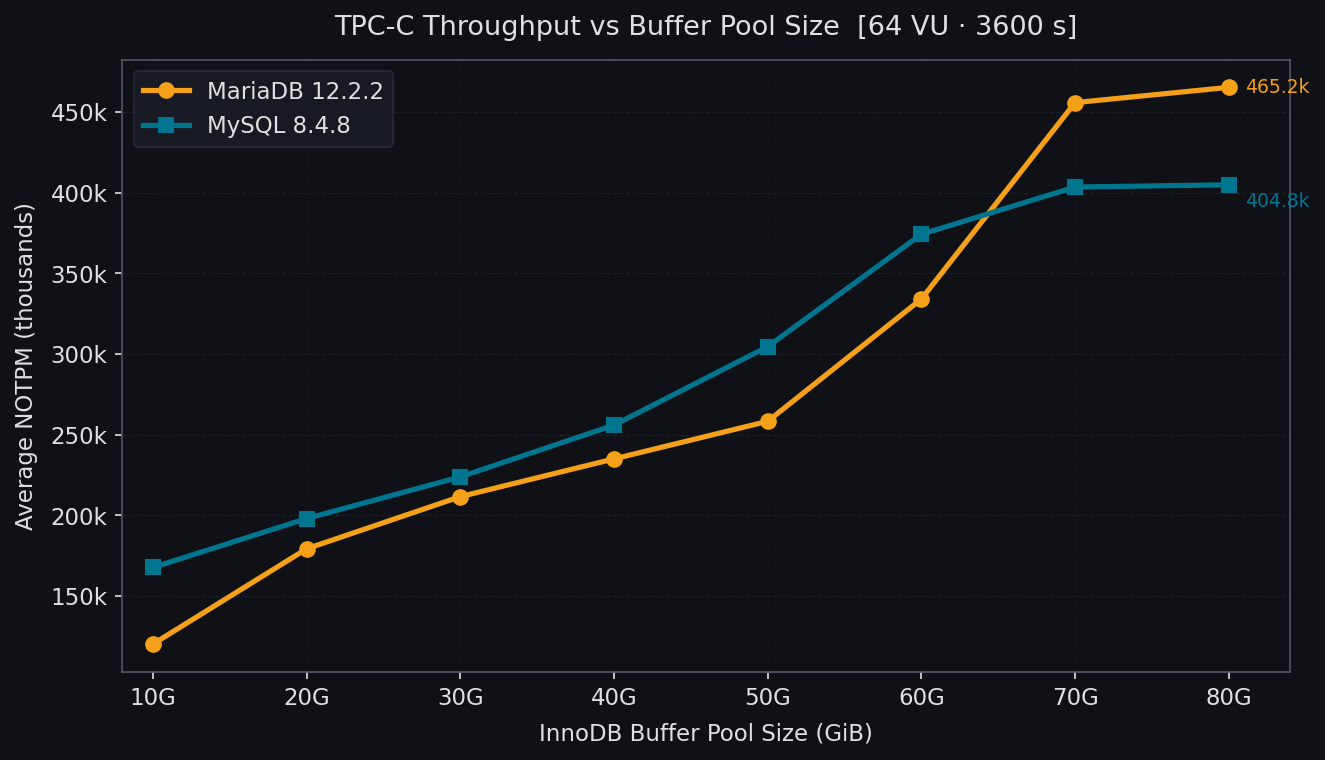
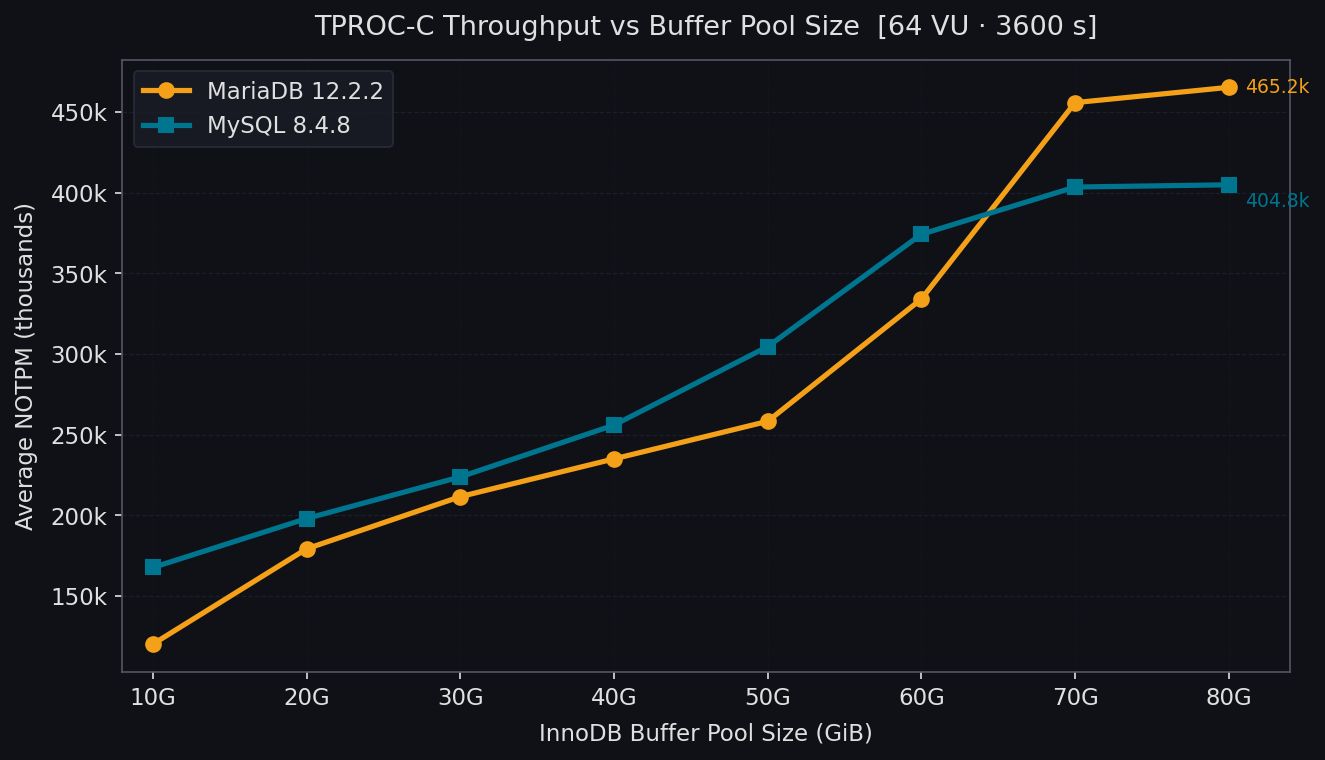
Rename TPC-C to TPROC-C throughout
HammerDB uses TPROC-C (its own workload), not the official TPC-C benchmark.
Updated all labels in build_report.py, REPORT.md, report.html, and charts.

Changed region(s): [[0.2475, 0.0, 0.8355, 0.0605]]

diff --git a/build_report.py b/build_report.py
@@ -39,7 +39,7 @@ plt.rcParams.update({
     "axes.titlepad":    12,
 })
 
-# TPS (commits+rollbacks/s) → NOTPM (new orders/min): TPC-C new-order mix = 45%
+# TPS (commits+rollbacks/s) → NOTPM (new orders/min): TPROC-C new-order mix = 45%
 TPS_TO_NOTPM = 60 * 0.45
 
 # ── load data ─────────────────────────────────────────────────────────────────
@@ -198,7 +198,7 @@ def make_bp_chart():
 
     ax.set_xlabel("InnoDB Buffer Pool Size (GiB)", labelpad=6)
     ax.set_ylabel("Average NOTPM (thousands)", labelpad=6)
-    ax.set_title("TPC-C Throughput vs Buffer Pool Size  [64 VU · 3600 s]")
+    ax.set_title("TPROC-C Throughput vs Buffer Pool Size  [64 VU · 3600 s]")
     ax.set_xticks(maria_bp_x)
     ax.set_xticklabels([f"{x}G" for x in maria_bp_x])
     ax.yaxis.set_major_formatter(plt.FuncFormatter(lambda v, _: f"{v:.0f}k"))
@@ -229,7 +229,7 @@ def make_vu_chart():
 
     ax.set_xlabel("Virtual Users (log scale)", labelpad=6)
     ax.set_ylabel("Average NOTPM (thousands)", labelpad=6)
-    ax.set_title("TPC-C Throughput vs Concurrency  [BP 50G · 3600 s]")
+    ax.set_title("TPROC-C Throughput vs Concurrency  [BP 50G · 3600 s]")
     ax.set_xscale("log", base=2)
     ax.set_xticks(maria_vu_x)
     ax.set_xticklabels([str(x) for x in maria_vu_x])
@@ -324,7 +324,7 @@ def make_bp_bar_chart():
     ax.set_xticklabels([f"{s}G" for s in all_sizes])
     ax.set_xlabel("InnoDB Buffer Pool Size (GiB)", labelpad=6)
     ax.set_ylabel("Average NOTPM (thousands)", labelpad=6)
-    ax.set_title("TPC-C Throughput — Buffer Pool Sweep  [64 VU · 3600 s]")
+    ax.set_title("TPROC-C Throughput — Buffer Pool Sweep  [64 VU · 3600 s]")
     ax.yaxis.set_major_formatter(plt.FuncFormatter(lambda v, _: f"{v:.0f}k"))
     ax.grid(axis="y", ls="--", alpha=0.5)
     ax.legend()
@@ -546,7 +546,7 @@ HTML = f"""<!DOCTYPE html>
 <html lang="en">
 <head>
 <meta charset="UTF-8">
-<title>MariaDB vs MySQL — TPC-C Benchmark Report</title>
+<title>MariaDB vs MySQL — TPROC-C Benchmark Report</title>
 <style>
   *, *::before, *::after {{ box-sizing: border-box; margin: 0; padding: 0; }}
   body {{
@@ -737,8 +737,8 @@ HTML = f"""<!DOCTYPE html>
 
 <!-- ── HEADER ── -->
 <header>
-  <h1>MariaDB vs MySQL — TPC-C Benchmark Report</h1>
-  <div class="subtitle">HammerDB 4.12 · TPC-C · 1000 warehouses · Intel Xeon Gold 6230 (2×20c) · 187 GiB RAM · NVMe 2.9 TB</div>
+  <h1>MariaDB vs MySQL — TPROC-C Benchmark Report</h1>
+  <div class="subtitle">HammerDB 4.12 · TPROC-C · 1000 warehouses · Intel Xeon Gold 6230 (2×20c) · 187 GiB RAM · NVMe 2.9 TB</div>
   <div class="pills">
     <span class="pill pill-maria">MariaDB 12.2.2</span>
     <span class="pill pill-mysql">MySQL 8.4.8</span>
@@ -802,7 +802,7 @@ HTML = f"""<!DOCTYPE html>
   <h2>Buffer Pool Sweep  <span style="font-weight:400;color:#555;font-size:0.85rem">64 VU · 10G – 80G</span></h2>
 
   <p>
-    Both databases ran TPC-C with 64 virtual users and a fixed buffer pool varying from 10 GiB to 80 GiB.
+    Both databases ran TPROC-C with 64 virtual users and a fixed buffer pool varying from 10 GiB to 80 GiB.
     The dataset represents 1000 warehouses (~100 GB working set), so an 80 GiB pool covers ~80% of hot data.
   </p>
 
@@ -927,11 +927,11 @@ HTML = f"""<!DOCTYPE html>
 <!-- ── SECTION 6: METHODOLOGY ── -->
 <section>
   <h2>Methodology</h2>
-  <p><strong>Benchmark:</strong> TPC-C via HammerDB 4.12 (<code>tpcc_run.tcl</code>).</p>
+  <p><strong>Benchmark:</strong> TPROC-C via HammerDB 4.12 (<code>tpcc_run.tcl</code>).</p>
   <p><strong>Workload:</strong> 1000 warehouses (~100 GB data), 60 s ramp-up, 3600 s measurement window.</p>
   <p><strong>Hardware:</strong> Intel Xeon Gold 6230 (2×20 cores, HT enabled = 80 logical CPUs), 187 GiB DDR4, NVMe SSD (2.9 TB).</p>
   <p><strong>OS:</strong> Ubuntu 24.04, kernel 6.8.0-60-generic.</p>
-  <p><strong>Metric:</strong> Average NOTPM (New Orders per Minute) derived from per-second commit rate x 60 x 0.45 (TPC-C new-order mix). Computed over the steady-state window after ramp-up; multiple runs at the same configuration are averaged.</p>
+  <p><strong>Metric:</strong> Average NOTPM (New Orders per Minute) derived from per-second commit rate x 60 x 0.45 (TPROC-C new-order mix). Computed over the steady-state window after ramp-up; multiple runs at the same configuration are averaged.</p>
   <p><strong>Buffer pool sweep:</strong> 64 VU, buffer pool varied 10–80 GiB in 10 GiB steps.</p>
   <p><strong>VU sweep:</strong> 50 GiB buffer pool, VU ∈ {{1, 2, 4, 8, 16, 32, 64, 128}}.</p>
 </section>
@@ -996,9 +996,9 @@ def build_md():
     scale_m  = maria_vu_y[-1]/maria_vu_y[0]
     scale_q  = mysql_vu_y[-1]/mysql_vu_y[0]
 
-    return f"""# MariaDB vs MySQL -- TPC-C Benchmark Report
+    return f"""# MariaDB vs MySQL -- TPROC-C Benchmark Report
 
-**HammerDB 4.12 | TPC-C | 1000 warehouses | 3600 s runs | 60 s ramp-up**
+**HammerDB 4.12 | TPROC-C | 1000 warehouses | 3600 s runs | 60 s ramp-up**
 **Hardware:** Intel Xeon Gold 6230 (2x20c, HT = 80 logical CPUs) | 187 GiB RAM | NVMe 2.9 TB
 **OS:** Ubuntu 24.04 | kernel 6.8.0-60-generic | Generated: {datetime.now().strftime("%Y-%m-%d")}
 
@@ -1023,12 +1023,12 @@ def build_md():
 
 ## Buffer Pool Sweep -- 64 VU, 10G-80G
 
-Both engines ran TPC-C with 64 virtual users and buffer pool varied from 10 to 80 GiB.
+Both engines ran TPROC-C with 64 virtual users and buffer pool varied from 10 to 80 GiB.
 The dataset is 1000 warehouses (~100 GB), so an 80 GiB pool covers ~80% of hot data.
 
-![TPC-C Throughput vs Buffer Pool Size](report_assets/fig1_bp_line.png)
+![TPROC-C Throughput vs Buffer Pool Size](report_assets/fig1_bp_line.png)
 
-![TPC-C Throughput vs Buffer Pool Size -- bar chart](report_assets/fig5_bp_bar.png)
+![TPROC-C Throughput vs Buffer Pool Size -- bar chart](report_assets/fig5_bp_bar.png)
 
 {md_bp_table()}
 
@@ -1042,7 +1042,7 @@ The dataset is 1000 warehouses (~100 GB), so an 80 GiB pool covers ~80% of hot d
 
 Concurrency swept from 1 to 128 virtual users with a fixed 50 GiB buffer pool.
 
-![TPC-C Throughput vs Concurrency](report_assets/fig2_vu_line.png)
+![TPROC-C Throughput vs Concurrency](report_assets/fig2_vu_line.png)
 
 ![Concurrency Scaling Efficiency](report_assets/fig4_scaling.png)
 
@@ -1076,11 +1076,11 @@ Parameters marked *MariaDB only* are silently ignored by MySQL.
 
 ## Methodology
 
-- **Benchmark:** TPC-C via HammerDB 4.12 (`tpcc_run.tcl`)
+- **Benchmark:** TPROC-C via HammerDB 4.12 (`tpcc_run.tcl`)
 - **Workload:** 1000 warehouses (~100 GB), 60 s ramp-up, 3600 s measurement window
 - **Hardware:** Intel Xeon Gold 6230 (2x20 cores, HT = 80 logical CPUs), 187 GiB DDR4, NVMe SSD (2.9 TB)
 - **OS:** Ubuntu 24.04, kernel 6.8.0-60-generic
-- **Metric:** NOTPM = per-second commit rate x 60 x 0.45 (TPC-C new-order mix is 45%)
+- **Metric:** NOTPM = per-second commit rate x 60 x 0.45 (TPROC-C new-order mix is 45%)
 - **BP sweep:** 64 VU, buffer pool 10-80 GiB in 10 GiB steps; repeated runs at same size are averaged
 - **VU sweep:** 50 GiB buffer pool, VU in {{1, 2, 4, 8, 16, 32, 64, 128}}
 

diff --git a/REPORT.md b/REPORT.md
@@ -1,6 +1,6 @@
-# MariaDB vs MySQL -- TPC-C Benchmark Report
+# MariaDB vs MySQL -- TPROC-C Benchmark Report
 
-**HammerDB 4.12 | TPC-C | 1000 warehouses | 3600 s runs | 60 s ramp-up**
+**HammerDB 4.12 | TPROC-C | 1000 warehouses | 3600 s runs | 60 s ramp-up**
 **Hardware:** Intel Xeon Gold 6230 (2x20c, HT = 80 logical CPUs) | 187 GiB RAM | NVMe 2.9 TB
 **OS:** Ubuntu 24.04 | kernel 6.8.0-60-generic | Generated: 2026-04-06
 
@@ -25,12 +25,12 @@
 
 ## Buffer Pool Sweep -- 64 VU, 10G-80G
 
-Both engines ran TPC-C with 64 virtual users and buffer pool varied from 10 to 80 GiB.
+Both engines ran TPROC-C with 64 virtual users and buffer pool varied from 10 to 80 GiB.
 The dataset is 1000 warehouses (~100 GB), so an 80 GiB pool covers ~80% of hot data.
 
-![TPC-C Throughput vs Buffer Pool Size](report_assets/fig1_bp_line.png)
+![TPROC-C Throughput vs Buffer Pool Size](report_assets/fig1_bp_line.png)
 
-![TPC-C Throughput vs Buffer Pool Size -- bar chart](report_assets/fig5_bp_bar.png)
+![TPROC-C Throughput vs Buffer Pool Size -- bar chart](report_assets/fig5_bp_bar.png)
 
 | BP Size | MariaDB NOTPM | MySQL NOTPM | Delta |
 |---------|--------------|-------------|-------|
@@ -53,7 +53,7 @@ The dataset is 1000 warehouses (~100 GB), so an 80 GiB pool covers ~80% of hot d
 
 Concurrency swept from 1 to 128 virtual users with a fixed 50 GiB buffer pool.
 
-![TPC-C Throughput vs Concurrency](report_assets/fig2_vu_line.png)
+![TPROC-C Throughput vs Concurrency](report_assets/fig2_vu_line.png)
 
 ![Concurrency Scaling Efficiency](report_assets/fig4_scaling.png)
 
@@ -171,11 +171,11 @@ Parameters marked *MariaDB only* are silently ignored by MySQL.
 
 ## Methodology
 
-- **Benchmark:** TPC-C via HammerDB 4.12 (`tpcc_run.tcl`)
+- **Benchmark:** TPROC-C via HammerDB 4.12 (`tpcc_run.tcl`)
 - **Workload:** 1000 warehouses (~100 GB), 60 s ramp-up, 3600 s measurement window
 - **Hardware:** Intel Xeon Gold 6230 (2x20 cores, HT = 80 logical CPUs), 187 GiB DDR4, NVMe SSD (2.9 TB)
 - **OS:** Ubuntu 24.04, kernel 6.8.0-60-generic
-- **Metric:** NOTPM = per-second commit rate x 60 x 0.45 (TPC-C new-order mix is 45%)
+- **Metric:** NOTPM = per-second commit rate x 60 x 0.45 (TPROC-C new-order mix is 45%)
 - **BP sweep:** 64 VU, buffer pool 10-80 GiB in 10 GiB steps; repeated runs at same size are averaged
 - **VU sweep:** 50 GiB buffer pool, VU in {1, 2, 4, 8, 16, 32, 64, 128}
 
